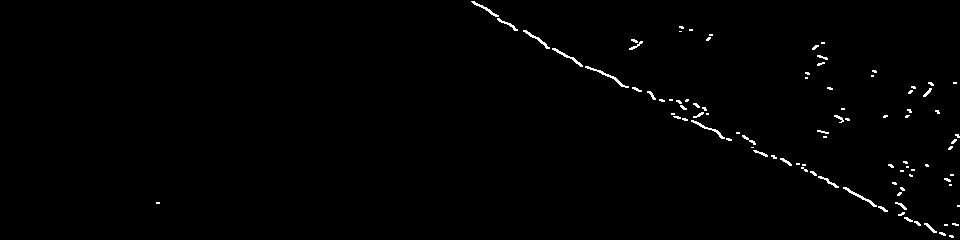
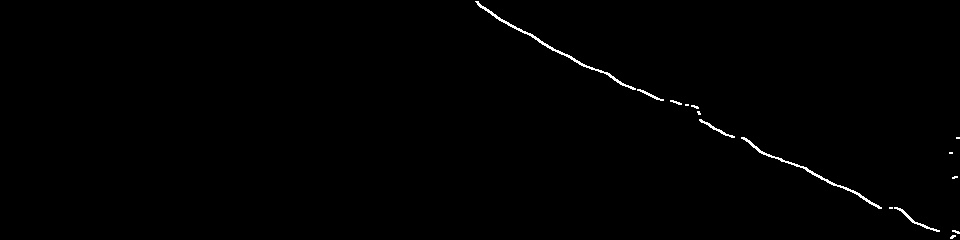
Fixed Edge Detection

diff --git a/CameraTests/PathFinder.py b/CameraTests/PathFinder.py
@@ -2,13 +2,15 @@ import numpy as np
 import cv2
 import time
 import warnings
-import picamera
-from picamera.array import PiRGBArray
+
+#import picamera
+#from picamera.array import PiRGBArray
 
 
 warnings.filterwarnings('error')
 
 image_size = (320, 192)
+'''
 camera = picamera.PiCamera()
 camera.resolution = image_size
 camera.framerate = 7
@@ -19,8 +21,7 @@ rawCapture = PiRGBArray(camera, size=image_size)
 
 # allow the camera to warmup
 time.sleep(0.1)
-
-image_size=(320, 192)
+'''
 
 # class for Road detection
 class Road_Edge():
@@ -76,9 +77,6 @@ class Road_Edge():
 
         self.cur_image = img
 
-        #canny edge image
-        self.canny_collect = None
-
         #desired offset
         self.desired_offset = 4
 
@@ -100,23 +98,26 @@ class Road_Edge():
         :return: whitewashed image in gray scale
         '''
         img = cv2.cvtColor(img, cv2.COLOR_RGB2HSV)
-
         h,s,v = cv2.split(img)
-        v = np.zeros_like(v)
         low_h = 50 #np.array([50, 0, 0])
         high_h = 100 #np.array([100, 255, 255])
         low_s = 25
         high_s = 70
         h_mask = cv2.inRange(h, low_h, high_h)
         s_mask = 255-cv2.inRange(s, low_s, high_s)
-        h_mask = cv2.medianBlur(h_mask, 5) #large median blur to ensure that patches are very rare
-        s_mask = cv2.medianBlur(s_mask, 5)  # large median blur to ensure that patches are very rare
-        res = cv2.merge([h_mask,s_mask,v])
-        res = cv2.Sobel(h_mask, cv2.CV_8U, 1, 0, ksize=3)
+        h_mask = cv2.medianBlur(h_mask, 19) #large median blur to ensure that patches are very rare
+        s_mask = cv2.medianBlur(s_mask, 19)  #large median blur to ensure that patches are very rare
+        tempS = np.zeros_like(s_mask)
+        tempS[np.nonzero(s_mask)] = 1
+        tempH = np.zeros_like(s_mask)
+        tempH[np.nonzero(h_mask)] = 1
+        res = tempS & tempH #take only the parts that thresholded white in both H and S
+        res[np.nonzero(res)] = 255
+        res = cv2.Sobel(res, cv2.CV_8U, 1, 0, ksize=3)
         res = cv2.Sobel(res, cv2.CV_8U, 0, 1, ksize=3)
+        cv2.imwrite('gray.jpg', res)
         cv2.imwrite('gradX.jpg', res)
         cv2.imwrite('gradY.jpg', res)
-
         cv2.imwrite('hWash.jpg', h_mask)
         cv2.imwrite('sWash.jpg', s_mask)
         cv2.imwrite('whiteWash.jpg', res)
@@ -150,25 +151,23 @@ class Road_Edge():
 
         return sbinary
 
-    def collect_edge(self, img, lowThresh, highThresh, window_height = 40, window_width = 40, margin = 10):
+    def collect_edge(self, img, lowThresh, highThresh, window_height = 10, window_width = 10, margin = 40):
         '''
         collect edge
-        :param img: source image
+        :param img: Source image
         :param threshold: threshold above which potentially an edge
         :return: collected edge
         '''
-
-        canny = cv2.Canny(img, highThresh, lowThresh)
-        self.canny_collect = canny
-        cv2.imwrite('cannyCollect.jpg', img)
-        xs = self.find_window_centroids(canny, window_width, window_height, margin)
+        whitewash = self.whitewash(img)
+        xs = self.find_window_centroids(whitewash, window_width, window_height, margin)
         xs.reverse()
         ys = range(1, (int)(img.shape[0] / window_height)+1)
         ys = [i * window_height - 1 for i in ys]
-        temp = np.zeros_like(img)
+        temp = np.zeros_like(whitewash)
         self.edge = temp
-        self.edge[ys,xs] = 255
-        self.edgeCoord = np.transpose(np.array([xs, ys]))
+        for i in range(0,len(ys)):
+            self.edge[ys[i]-margin:ys[i]+margin,xs[i]-margin:xs[i]+margin] = \
+                whitewash[ys[i]-margin:ys[i]+margin,xs[i]-margin:xs[i]+margin]
         cv2.imwrite('edge.jpg', self.edge)
         return xs, ys
 
@@ -185,20 +184,26 @@ class Road_Edge():
         :return: a set of windows that contain the line
         '''
         window_centroids = []  # Store the (left,right) window centroid positions per level
-        window = np.ones(window_width)  # Create our window template that we will use for convolutions
+        if self.look_left:
+            window = np.array([float(i**2)/window_width for i in range(0, window_width)])
+        else:
+            window = np.array([float(i**2) / window_width for i in range(window_width, 0, -1)])
+        #window = np.ones(window_width)  # Create our window template that we will use for convolutions
 
         # First find the two starting positions for the left and right lane by using np.sum to get the vertical image slice
         # and then np.convolve the vertical image slice with the window template
 
         # Sum bottom ratio of image
-        ratio = 11 / 12.0
+        ratio = 1 / 4
+        cv2.imwrite('partialL.jpg', image[int(ratio * image.shape[0]):, :int(image.shape[1] / 2)])
+        cv2.imwrite('partialR.jpg', image[int(image.shape[0] * ratio):, int(image.shape[1] / 2):])
         if self.look_left:
             totSum = np.sum(image[int(ratio * image.shape[0]):, :int(image.shape[1] / 2)], axis=0)
             center = np.argmax(np.convolve(window, totSum)) - window_width / 2
             if sum(totSum) < 20:
                 self.found_edge = False
         else:
-            totSum = np.sum(image[int( image.shape[0] * ratio):, int(image.shape[1] / 2):], axis=0)
+            totSum = np.sum(image[int(image.shape[0] * ratio):, int(image.shape[1] / 2):], axis=0)
             center = np.argmax(np.convolve(window, totSum)) - window_width / 2 + int(image.shape[1] / 2)
             if sum(totSum) < 20:
                 self.found_edge = False
@@ -259,23 +264,24 @@ class Road_Edge():
         :return:
         '''
         # window setting
-        wind_width = 5
-        wind_height = 5
-        margin = 25  # how much road can deviate ahead
-        self.allx,self.ally = self.collect_edge(image,180, 255,wind_height, wind_width, margin)
+        wind_width = 10
+        wind_height = 10
+        margin = 20  # how much road can deviate ahead
+        self.allx,self.ally = self.collect_edge(image, 180, 255,wind_height, wind_width, margin)
         self.bestx, self.besty = np.array(self.allx), np.array(self.ally)
 
         if (len(self.allx) > 0):
             try:
-                self.current_fit = np.polyfit(self.ally, self.allx, 2)
+                self.current_fit = np.polyfit(self.ally, self.allx, 1)
                 self.best_fit = self.current_fit
             except np.RankWarning:
                 self.poly_warning = True
         self.detected = True
         self.detected_first = True
-        template = np.array(image, np.uint8)  # add left window pixel
-        zero_channel = np.zeros_like(template)  # create a zero color channel
-        self.edge = np.array(cv2.merge((template, zero_channel, template)), np.uint8)
+        #UNCLEAR WHY I DID THE BELOW
+        #template = np.array(image, np.uint8)  # add left window pixel
+        #zero_channel = np.zeros_like(template)  # create a zero color channel
+       #self.edge = np.array(cv2.merge((template, zero_channel, template)), np.uint8)
     
     
     def calculate_curvature_offset(self):
@@ -327,7 +333,7 @@ class Road_Edge():
     def project_on_road(self):
         image_input = self.cur_image
         image = image_input[self.remove_pixels:,:]
-        image = self.whitewash(image)
+        #image = self.whitewash(image) REFACTOR PUT THIS IN COLLECT EDGE
         self.im_shape = image.shape
         self.get_fit2(image)
         #cv2.imwrite('edge.jpg', self.edge)
@@ -340,25 +346,37 @@ class Road_Edge():
             warp_zero = np.zeros_like(image).astype(np.uint8)
             color_warp = np.dstack((warp_zero, warp_zero, warp_zero))
 
-            ploty = np.linspace(0, image_input.shape[0] - 1, image_input.shape[0])
-            fit = self.best_fit[0] * ploty ** 2 + self.best_fit[1] * ploty + self.best_fit[2]
+            #ploty = np.linspace(0, image_input.shape[0] - 1, image_input.shape[0])
+            #fit = self.best_fit[0] * ploty ** 2 + self.best_fit[1] * ploty + self.best_fit[2]
 
 
             # recast the x and y points into usable format for cv2.fillPoly()
-            pts1 = np.array([np.transpose(np.vstack([fit, ploty]))])
-            pts2 = pts1
-            pts = np.hstack((pts1, pts2))
+            #pts1 = np.array([np.transpose(np.vstack([fit, ploty]))])
+            #pts2 = pts1
+            #pts = np.hstack((pts1, pts2))
 
 
             # draw the lane onto the warped blank image
-            cv2.fillPoly(color_warp, np.int_([pts]), (0, 255, 0))
+            #cv2.fillPoly(color_warp, np.int_([pts]), (0, 255, 0))
 
 
             # combine the result with the original image
-            edgeFill = np.vstack((filler, self.edge))
+            rEdge = np.zeros_like(self.edge)
+            gEdge = np.zeros_like(self.edge)
+            bEdge = np.zeros_like(self.edge)
+            rEdge[np.nonzero(self.edge)] = 255
+            rEdge[np.nonzero(self.edge)] = 180
+            edgeStack = np.dstack((bEdge,gEdge,rEdge))
+            edgeFill = np.vstack((filler, edgeStack))
             #filled = cv2.cvtColor(np.vstack((filler, self.edge)), cv2.COLOR_GRAY2RGB)
             #cv2.imwrite('filled.jpg', filled)
             result = cv2.addWeighted(edgeFill, 1, image_input, 1, 0) #edgeFill = filled
+            x1 = 0
+            x2 = image_input.shape[0] - 1
+            point1 = (int(self.best_fit[0] * x1 + self.best_fit[1])-self.remove_pixels, x1)
+            point2 = (int(self.best_fit[0] * x2 + self.best_fit[1])-self.remove_pixels, x2)
+            cv2.line(result, point1, point2, [255, 0, 0])
+            '''
             for idx1, point1 in enumerate(self.edgeCoord):
                 for idx2, point2 in enumerate(self.edgeCoord):
                     point1 = self.edgeCoord[idx1]
@@ -366,6 +384,7 @@ class Road_Edge():
                         temp1 = (point1[0], point1[1] + self.remove_pixels)
                         temp2 = (point2[0], point2[1] + self.remove_pixels)
                         cv2.line(result, temp1, temp2, [255,0,0])
+            '''
             # get curvature and offset
             self.calculate_curvature_offset()
 
@@ -391,8 +410,8 @@ class Road_Edge():
 
 
     def can_find_edge(self):
-        window_width = 5
-        window_height = 5
+        window_width = 10
+        window_height = 10
         margin = 25
         window = np.ones(window_width)  # Create our window template that we will use for convolutions
 
@@ -436,6 +455,7 @@ roadEdge.enlarge = 0.5  # 2.25
 image = cv2.GaussianBlur(image, (3,3),1)
 roadEdge.look_left = False
 result = roadEdge.project_on_road()
+cv2.imwrite('result.jpg',result)
 '''
 print roadEdge.calc_phi_d()
 cv2.imwrite('Result.jpg', result)
@@ -445,7 +465,7 @@ time.sleep(0.1)
 key = cv2.waitKey(1) & 0xF
     #if key == ord("q"):
     #    break
-'''
+
 for frame in camera.capture_continuous(rawCapture, format="bgr", use_video_port=True):
     # grab the raw NumPy array representing the image, then initialize the timestamp
     # and occupied/unoccupied text
@@ -464,3 +484,4 @@ for frame in camera.capture_continuous(rawCapture, format="bgr", use_video_port=
     # if the `q` key was pressed, break from the loop
     if key == ord("q"):
         break
+'''
